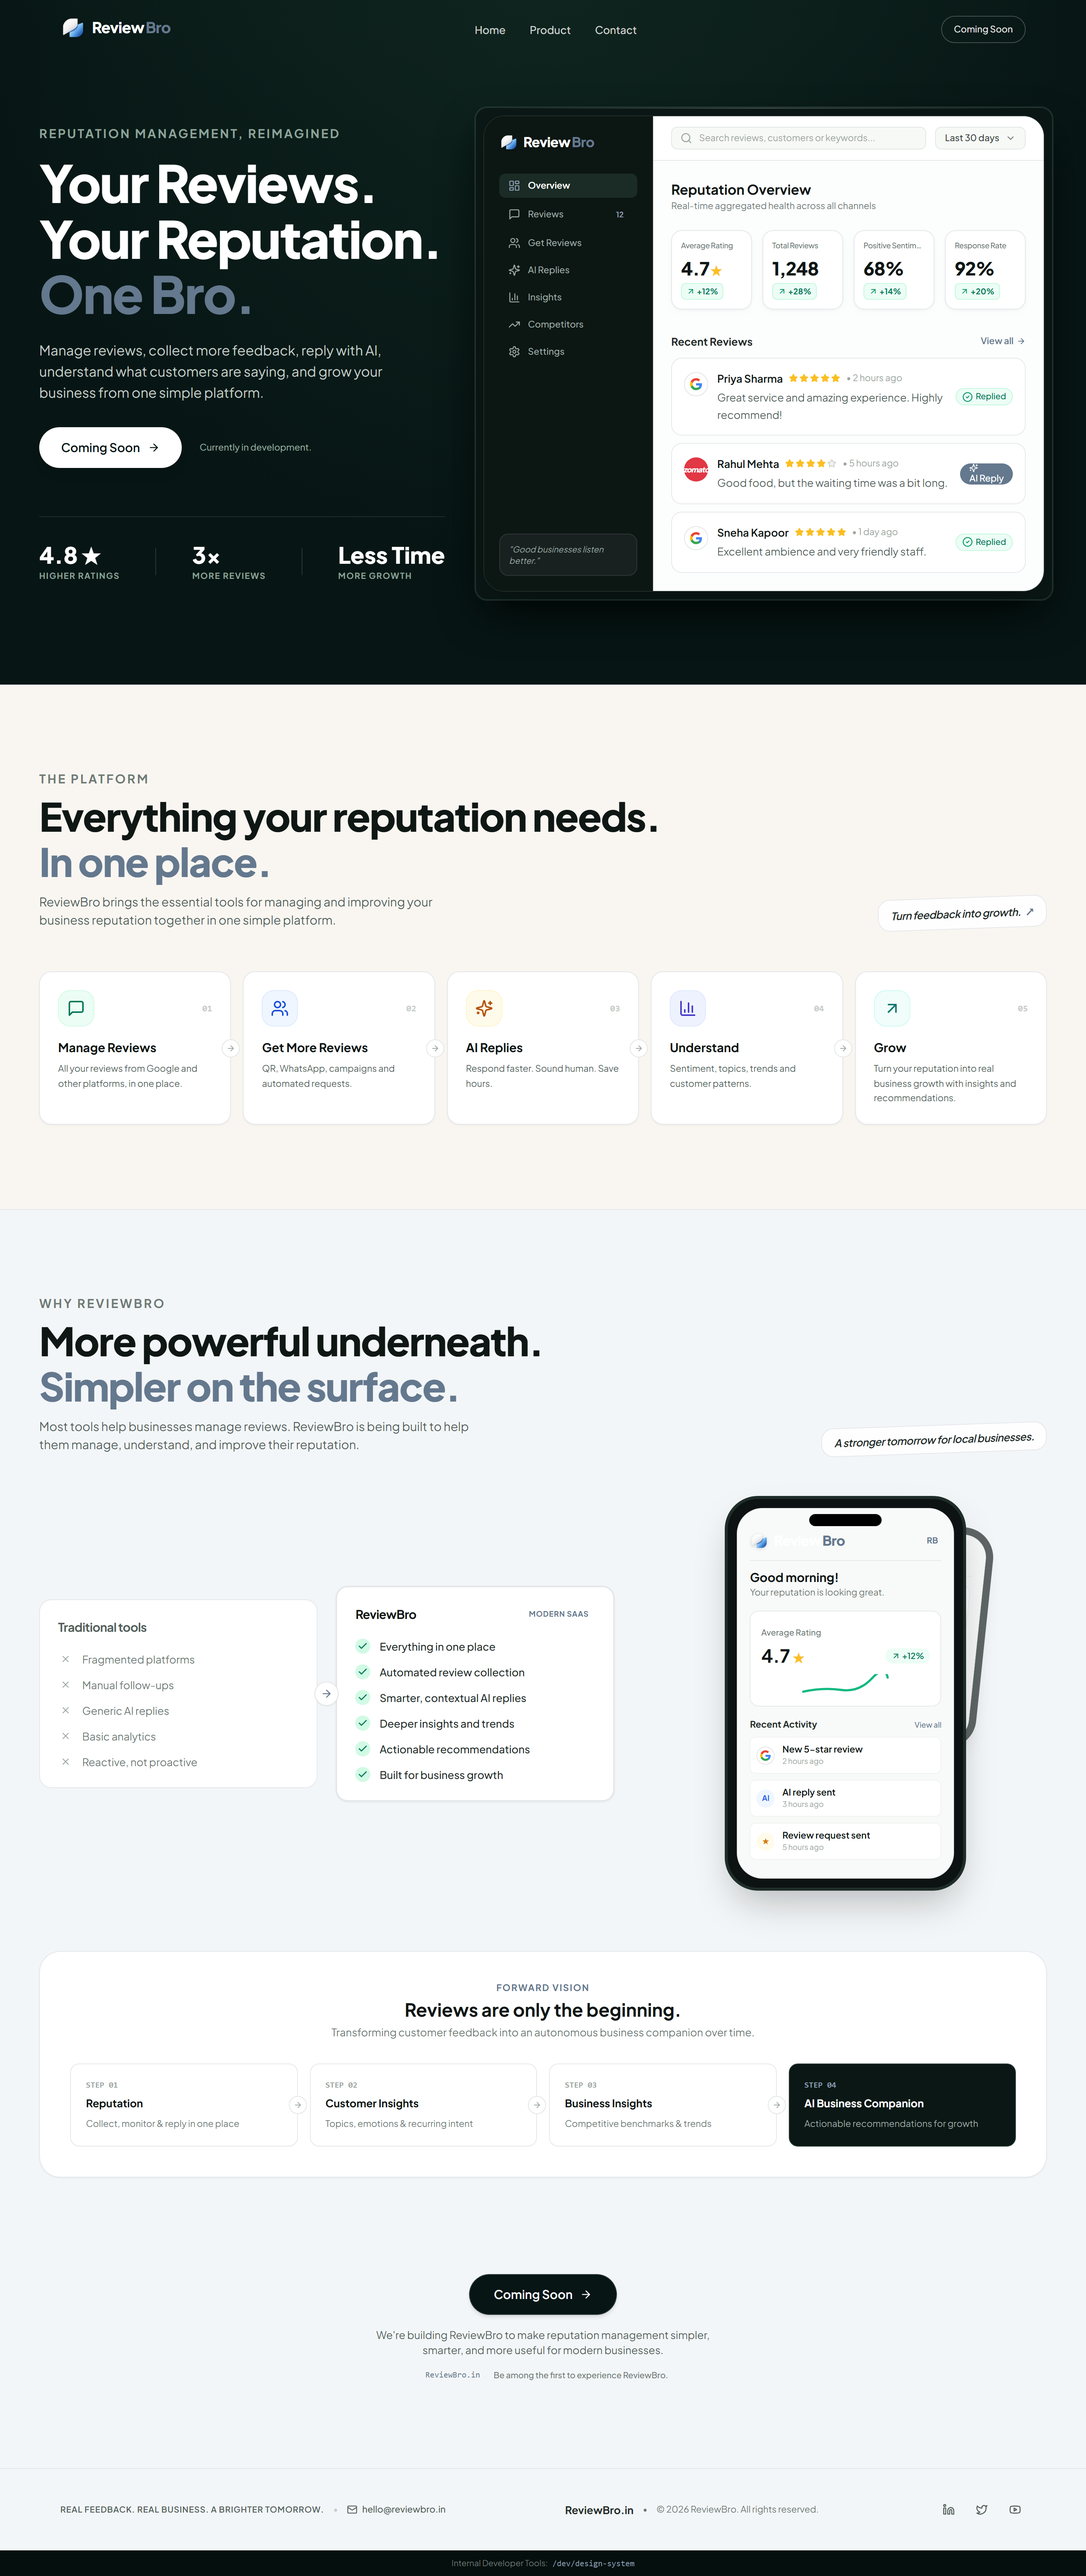
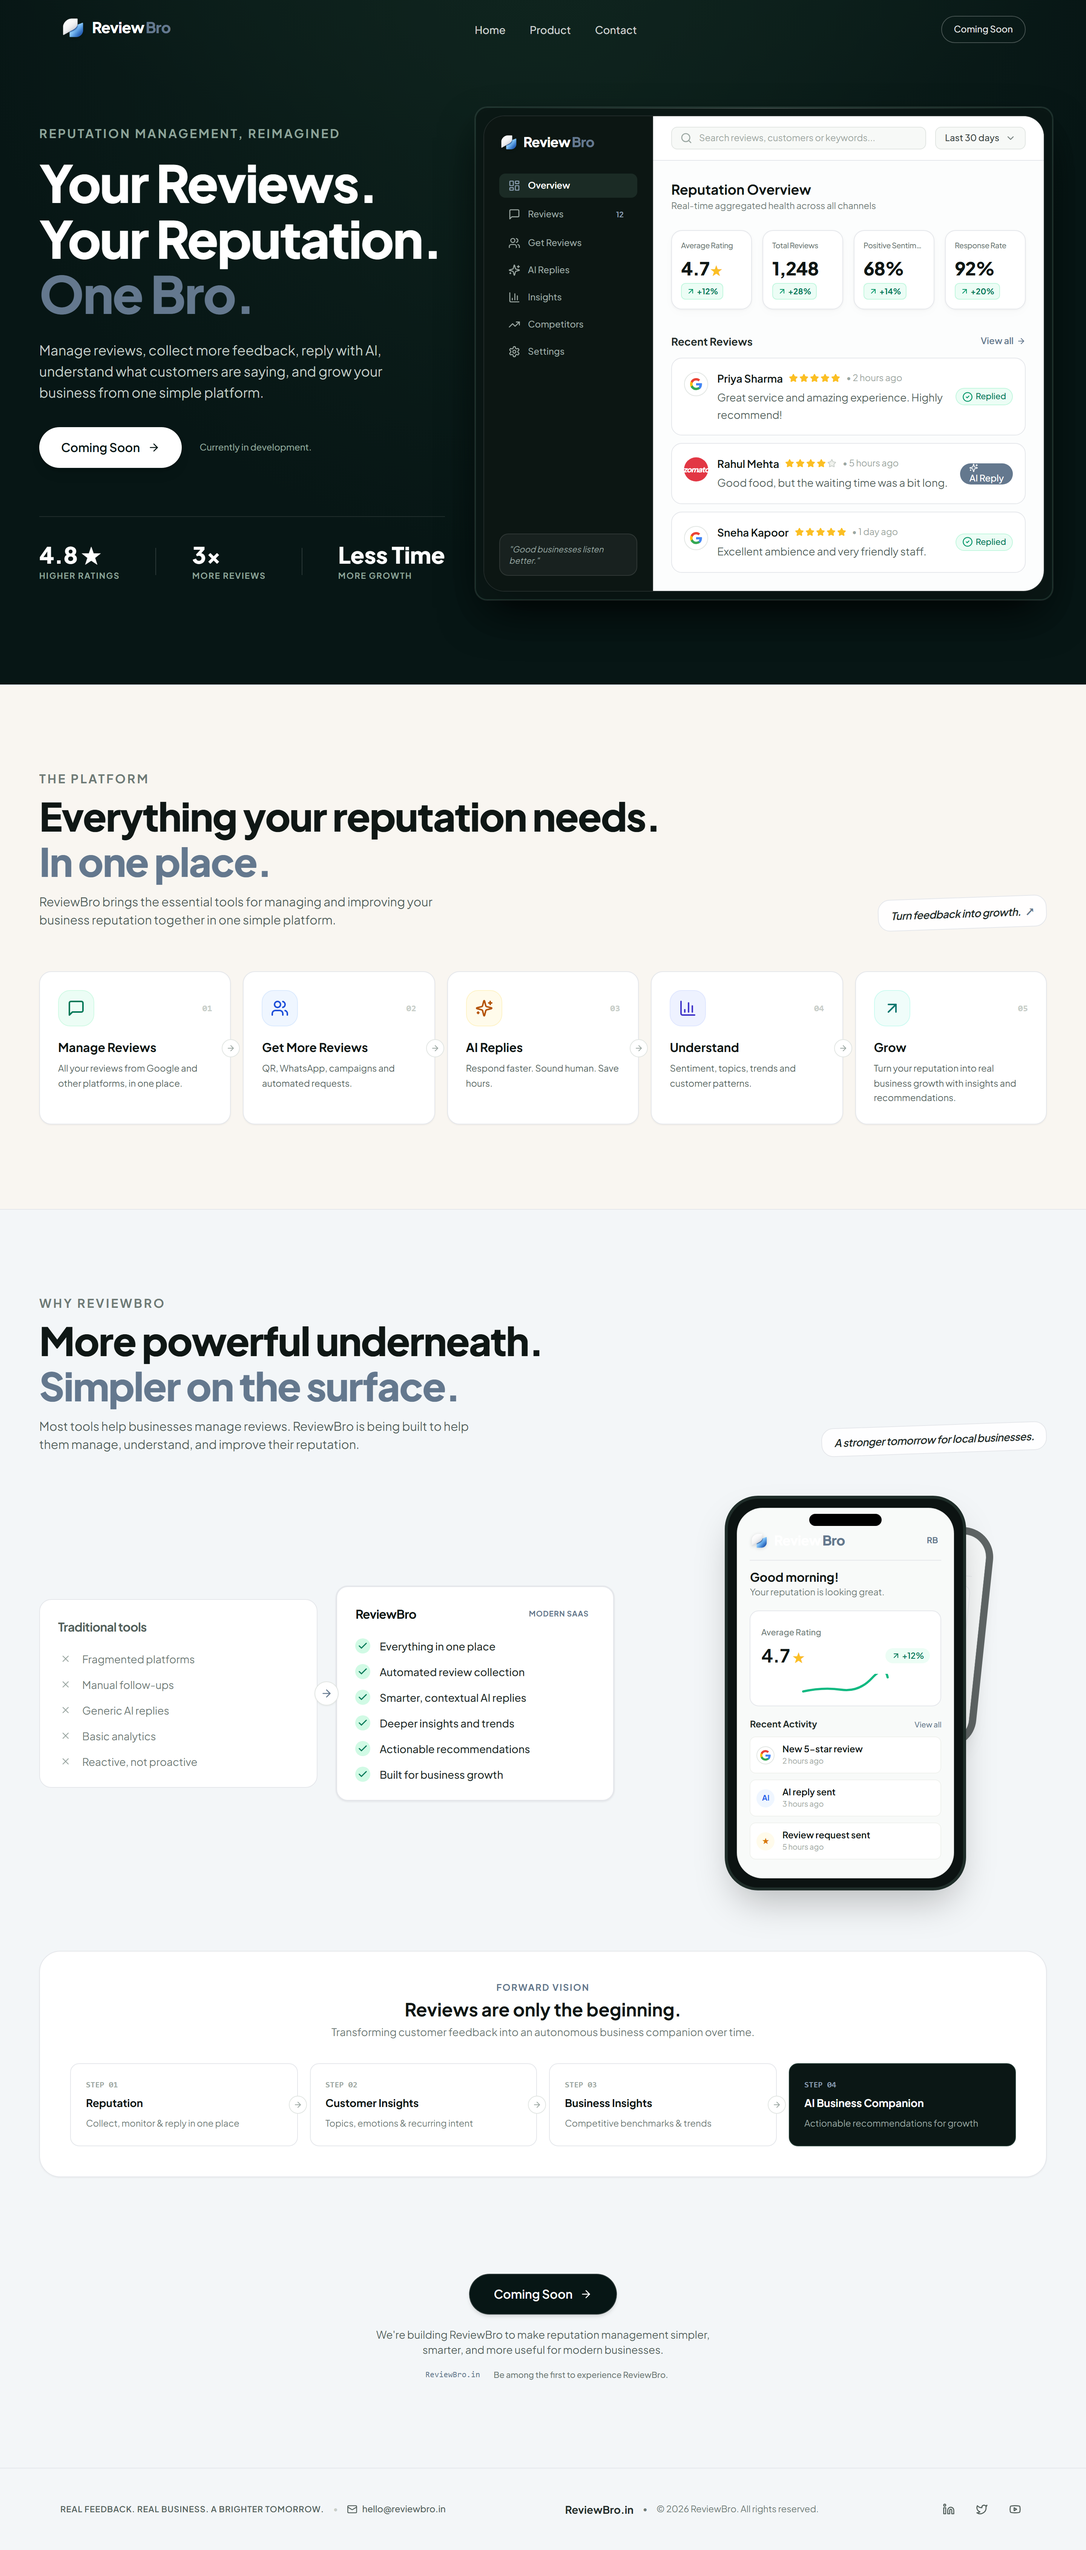
feat: complete Phase 4 final production readiness, QA, SEO, and deployment configuration

diff --git a/index.html b/index.html
@@ -7,23 +7,30 @@
     <!-- Primary Page Metadata -->
     <title>ReviewBro | More Than Reviews. A Brighter Tomorrow.</title>
     <meta name="description" content="ReviewBro helps businesses manage reviews, collect feedback, respond with AI, understand reputation insights, and grow from one simple platform." />
+    <meta name="robots" content="index, follow" />
+    <link rel="canonical" href="https://reviewbro.in/" />
     <meta name="theme-color" content="#071615" />
+    
+    <!-- Favicon & Touch Icons -->
     <link rel="icon" type="image/png" href="/brand/logo-mark.png" />
     <link rel="apple-touch-icon" href="/app-icon.png" />
 
-    <!-- Open Graph / Facebook -->
+    <!-- Open Graph / Facebook / LinkedIn -->
     <meta property="og:type" content="website" />
     <meta property="og:url" content="https://reviewbro.in/" />
     <meta property="og:title" content="ReviewBro | More Than Reviews. A Brighter Tomorrow." />
     <meta property="og:description" content="ReviewBro helps businesses manage reviews, collect feedback, respond with AI, understand reputation insights, and grow from one simple platform." />
-    <meta property="og:image" content="/brand/logo-mark.png" />
+    <meta property="og:image" content="https://reviewbro.in/og-image.png" />
+    <meta property="og:image:width" content="1200" />
+    <meta property="og:image:height" content="630" />
+    <meta property="og:site_name" content="ReviewBro" />
 
-    <!-- Twitter Cards -->
+    <!-- Twitter / X Cards -->
     <meta name="twitter:card" content="summary_large_image" />
     <meta name="twitter:url" content="https://reviewbro.in/" />
     <meta name="twitter:title" content="ReviewBro | More Than Reviews. A Brighter Tomorrow." />
     <meta name="twitter:description" content="ReviewBro helps businesses manage reviews, collect feedback, respond with AI, understand reputation insights, and grow from one simple platform." />
-    <meta name="twitter:image" content="/brand/logo-mark.png" />
+    <meta name="twitter:image" content="https://reviewbro.in/og-image.png" />
 
     <!-- Preconnect & Fonts -->
     <link rel="preconnect" href="https://fonts.googleapis.com">

diff --git a/src/pages/LandingPage.tsx b/src/pages/LandingPage.tsx
@@ -12,26 +12,15 @@ export const LandingPage: React.FC = () => {
         {/* SECTION 1: HERO (Dark Deep Green) */}
         <Hero />
 
-        {/* SECTION 2: THE PLATFORM (Soft Neutral) */}
+        {/* SECTION 2: THE PLATFORM (Soft Warm Neutral) */}
         <PlatformSection />
 
-        {/* SECTION 3: WHY REVIEWBRO + VISION + FINAL CTA (Soft Slate Cool Neutral) */}
+        {/* SECTION 3: WHY REVIEWBRO + VISION + FINAL CTA (Cool Slate Neutral) */}
         <WhyReviewBro />
       </main>
 
       {/* FOOTER (Minimal) */}
       <Footer />
-
-      {/* Development Link to Internal Design System */}
-      <div className="bg-[#050f0e] border-t border-white/5 py-2 px-4 text-center text-[11px] text-neutral-500">
-        <span>Internal Developer Tools: </span>
-        <a
-          href="/dev/design-system"
-          className="text-brand-slate-light hover:underline ml-1 font-mono"
-        >
-          /dev/design-system
-        </a>
-      </div>
     </div>
   )
 }
